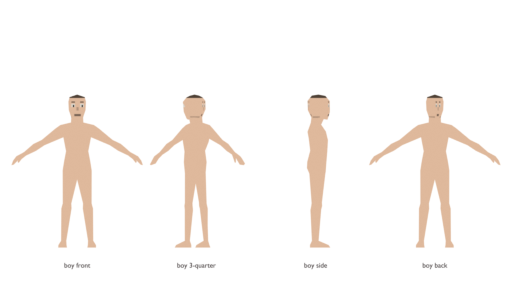
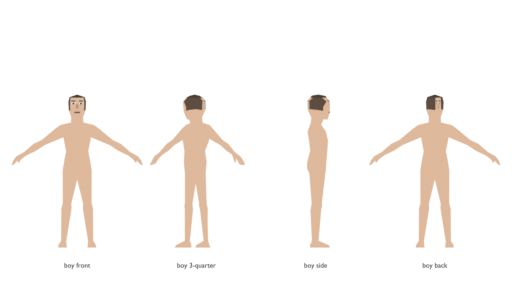
Citizens: the skirt walk strip, and a hair sheet you can actually read
Two renders that exist because two claims could not be checked without them.

citizen_skirt_walk.png poses six independent copies of the rig through a walk
arc and renders the deformed cloth. The swing axis is measured, not assumed:
the arc goes on the thigh's local X, the toe's world displacement is read back,
and the axis is swapped and re-probed if the leg went sideways. It swings on
local Z. Every skirt edge is then compared against its rest length, and the
worst stretch across the arc is asserted under 1.40. That assertion is what
caught the 2.14x shear the weights used to have.

citizen_hair_wall.png is head close-ups of all seven styles, front and side.
Silhouette is the whole point of the hair pass and it is unreadable at
full-body scale - the buried-eyes defect survived a full render sheet because
nothing drew a head bigger than ninety pixels.

Every dressed combination the renderer draws now asserts a tri budget of 700.
Highest drawn is the woman at 682; heaviest possible adult is 698.

Claude-Session: https://claude.ai/code/session_01LaXtnkTNzBmsu45HKsKTDc

diff --git a/tools/citizens/07_render_review.py b/tools/citizens/07_render_review.py
@@ -3,9 +3,13 @@
   citizen_turnaround_<MASTER>.png  front / 3-quarter / side / back
   citizen_variant_wall.png         garb toggles and hair styles on man and woman
   citizen_scale_check.png          child beside adult
+  citizen_skirt_walk.png           six posed frames of the woman's skirt
 
 The masters are rest-pose, so a plain copy of the mesh data renders identically
-to the rigged object - no evaluation, no armature, nothing to go stale.
+to the rigged object - no evaluation, no armature, nothing to go stale. The
+skirt strip is the exception and the reason it exists: it POSES six independent
+copies of the rig through a walk arc and renders the deformed cloth, because
+that is the one claim a still cannot make.
 
 Run: blender -b --factory-startup --python tools/citizens/07_render_review.py
 """
@@ -21,6 +25,14 @@ from citizen_common import MASTER, REVIEW, MASTERS, ensure_dirs, banner, tri_cou
 SLOT_W = 0.95
 ROW_H = 2.05
 
+# a walk arc for the left thigh, in degrees; the right leg mirrors it
+WALK_ARC = (-30.0, -16.0, 0.0, 16.0, 30.0, 14.0)
+
+
+def parts_of(master):
+    """A master's skin is TWO objects since the head split."""
+    return [master, "%s_head" % master]
+
 
 def clear_render_scene():
     for ob in list(bpy.data.objects):
@@ -29,6 +41,9 @@ def clear_render_scene():
     for c in list(bpy.data.curves):
         if c.name.startswith("_rv_"):
             bpy.data.curves.remove(c)
+    for a in list(bpy.data.armatures):
+        if a.name.startswith("_rv_"):
+            bpy.data.armatures.remove(a)
 
 
 def stamp(names, x, z, rot_z=0.0, label=None):
@@ -137,7 +152,7 @@ def turnaround(master):
     views = [(0.0, "front"), (math.radians(225), "3-quarter"),
              (math.radians(90), "side"), (math.radians(180), "back")]
     for i, (rot, label) in enumerate(views):
-        stamp([master], i * SLOT_W, 0.0, rot, "%s %s" % (master.lower(), label))
+        stamp(parts_of(master), i * SLOT_W, 0.0, rot, "%s %s" % (master.lower(), label))
     hide_everything_real()
     camera_over(-SLOT_W * 0.55, SLOT_W * 3.55, -0.30, 1.95, 512, 288)
     render_to(os.path.join(REVIEW, "citizen_turnaround_%s.png" % master))
@@ -171,8 +186,8 @@ def variant_wall():
     clear_render_scene()
     rows = []
     for master in ("MAN", "WOMAN"):
-        rows.append([(([master] + names), lbl) for names, lbl in GARB_SETS[master]])
-        rows.append([([master, h], h.rsplit("_", 1)[0].replace("hair_", ""))
+        rows.append([((parts_of(master) + names), lbl) for names, lbl in GARB_SETS[master]])
+        rows.append([(parts_of(master) + [h], h.rsplit("_", 1)[0].replace("hair_", ""))
                      for h in HAIR_SETS[master]])
     ncol = max(len(r) for r in rows)
     for ri, row in enumerate(rows):
@@ -188,19 +203,175 @@ def variant_wall():
 def scale_check():
     clear_render_scene()
     for i, m in enumerate(MASTERS):
-        stamp([m], i * SLOT_W, 0.0, 0.0, m.lower())
+        stamp(parts_of(m), i * SLOT_W, 0.0, 0.0, m.lower())
     # and one dressed child beside one dressed adult, the read that matters
-    stamp(["MAN", "garb_vest_plain_MAN", "garb_pants_MAN", "garb_sleeve_long_MAN",
-           "hair_short_crop_MAN"], 4.6 * SLOT_W, 0.0, 0.0, "man dressed")
-    stamp(["BOY", "garb_vest_plain_BOY", "garb_pants_BOY", "garb_sleeve_rolled_BOY",
-           "hair_shaggy_BOY"], 5.5 * SLOT_W, 0.0, 0.0, "boy dressed")
-    stamp(["WOMAN", "garb_vest_laced_WOMAN", "garb_skirt_WOMAN",
-           "hair_long_braid_WOMAN"], 6.4 * SLOT_W, 0.0, 0.0, "woman dressed")
-    stamp(["GIRL", "garb_vest_plain_GIRL", "garb_skirt_GIRL",
-           "hair_bun_GIRL"], 7.3 * SLOT_W, 0.0, 0.0, "girl dressed")
+    dressed = (
+        (4.6, "MAN", ["garb_vest_plain_MAN", "garb_pants_MAN",
+                      "garb_sleeve_long_MAN", "hair_short_crop_MAN"], "man dressed"),
+        (5.5, "BOY", ["garb_vest_plain_BOY", "garb_pants_BOY",
+                      "garb_sleeve_rolled_BOY", "hair_shaggy_BOY"], "boy dressed"),
+        (6.4, "WOMAN", ["garb_vest_laced_WOMAN", "garb_skirt_WOMAN",
+                        "garb_sleeve_long_WOMAN", "hair_long_braid_WOMAN"], "woman dressed"),
+        (7.3, "GIRL", ["garb_vest_plain_GIRL", "garb_skirt_GIRL",
+                       "hair_bun_GIRL"], "girl dressed"),
+    )
+    for x, master, worn, label in dressed:
+        names = parts_of(master) + worn
+        stamp(names, x * SLOT_W, 0.0, 0.0, label)
+        total = sum(tri_count(bpy.data.objects[n]) for n in names)
+        print("DRESSED %-14s %d tris  (%s)" % (label, total, ", ".join(worn)))
+        assert total <= 700, "%s is over the dressed budget: %d tris" % (label, total)
     hide_everything_real()
     camera_over(-SLOT_W * 0.55, SLOT_W * 7.85, -0.30, 1.95, 512, 224)
     render_to(os.path.join(REVIEW, "citizen_scale_check.png"))
+
+
+def hair_wall():
+    """Head close-ups: every style, front and side. Silhouette is the whole
+    point of the hair pass, and it is unreadable at full-body scale."""
+    clear_render_scene()
+    slot = 0.30
+    row_h = 0.42
+    rows = []
+    for master in ("MAN", "WOMAN"):
+        rows.append((master, HAIR_SETS[master]))
+    head = bpy.data.objects["MAN_head"]
+    z_lo = min(v.co.z for v in head.data.vertices)
+    z_hi = max(v.co.z for v in head.data.vertices)
+    ncol = 0
+    for ri, (master, styles) in enumerate(rows):
+        ci = 0
+        for h in styles:
+            for rot, tag in ((0.0, "front"), (math.radians(90), "side")):
+                stamp(["%s_head" % master, h], ci * slot, -ri * row_h - z_lo, rot,
+                      "%s %s" % (h.replace("hair_", "").rsplit("_", 1)[0], tag))
+                ci += 1
+        ncol = max(ncol, ci)
+    hide_everything_real()
+    camera_over(-slot * 0.55, slot * (ncol - 1) + slot * 0.55,
+                -(len(rows) - 1) * row_h - 0.12, (z_hi - z_lo) + 0.06, 768, 340)
+    render_to(os.path.join(REVIEW, "citizen_hair_wall.png"))
+
+
+def _deformed(ob):
+    dg = bpy.context.evaluated_depsgraph_get()
+    ev = ob.evaluated_get(dg)
+    me = ev.to_mesh()
+    co = [v.co.copy() for v in me.vertices]
+    edges = [tuple(e.vertices) for e in me.edges]
+    ev.to_mesh_clear()
+    return co, edges
+
+
+def _pose_legs(rig, degrees, axis):
+    for side, sign in (("Left", 1.0), ("Right", -1.0)):
+        for bone, share in (("UpLeg", 1.0), ("Leg", -0.55)):
+            pb = rig.pose.bones["mixamorig:%s%s" % (side, bone)]
+            pb.rotation_mode = 'XYZ'
+            pb.rotation_euler = (0.0, 0.0, 0.0)
+            pb.rotation_euler[axis] = math.radians(degrees) * sign * share
+    bpy.context.view_layer.update()
+
+
+def _clone_posed(master, worn, i, degrees, axis):
+    src_rig = bpy.data.objects[master].parent
+    rig = src_rig.copy()
+    rig.data = src_rig.data.copy()
+    rig.name = "_rv_rig_%d" % i
+    rig.data.name = "_rv_rigdata_%d" % i
+    bpy.context.scene.collection.objects.link(rig)
+    rig.data.pose_position = 'POSE'
+    rig.location.x = rig.location.x + i * SLOT_W
+    made = []
+    for n in parts_of(master) + worn:
+        src = bpy.data.objects[n]
+        ob = src.copy()                       # object copy, mesh data shared
+        ob.name = "_rv_%s_%d" % (n, i)
+        bpy.context.scene.collection.objects.link(ob)
+        ob.parent = rig
+        ob.matrix_parent_inverse = src.matrix_parent_inverse.copy()
+        for m in ob.modifiers:
+            if m.type == 'ARMATURE':
+                m.object = rig
+        made.append(ob)
+    _pose_legs(rig, degrees, axis)
+    return rig, made
+
+
+def skirt_walk_strip():
+    """Six posed frames of the woman's skirt through a walk arc.
+
+    The swing axis is MEASURED, not assumed: the arc is applied on the thigh's
+    local X, the toe's world displacement is read back, and if the leg moved
+    sideways instead of forward the axis is swapped and the strip rebuilt. The
+    cloth is then checked for shear by comparing every skirt edge against its
+    rest length.
+    """
+    worn = ["garb_vest_laced_WOMAN", "garb_skirt_WOMAN", "garb_sleeve_long_WOMAN",
+            "hair_long_braid_WOMAN"]
+    rest_co, rest_edges = _deformed(bpy.data.objects["garb_skirt_WOMAN"])
+
+    def toe_swing(axis):
+        clear_render_scene()
+        rig, _ = _clone_posed("WOMAN", worn, 0, WALK_ARC[0], axis)
+        base = (rig.matrix_world @ rig.pose.bones["mixamorig:LeftToeBase"].head)
+        _pose_legs(rig, WALK_ARC[4], axis)
+        tip = (rig.matrix_world @ rig.pose.bones["mixamorig:LeftToeBase"].head)
+        d = tip - base
+        clear_render_scene()
+        return d
+
+    axis = 0
+    d = toe_swing(axis)
+    print("SKIRT axis probe X: toe swing dx=%.4f dy=%.4f dz=%.4f" % (d.x, d.y, d.z))
+    if abs(d.y) <= abs(d.x):
+        axis = 2
+        d = toe_swing(axis)
+        print("SKIRT axis probe Z: toe swing dx=%.4f dy=%.4f dz=%.4f" % (d.x, d.y, d.z))
+    assert abs(d.y) > abs(d.x), \
+        "no thigh axis swings the leg fore/aft (dx=%.4f dy=%.4f)" % (d.x, d.y)
+    print("SKIRT walk swings on thigh local axis %s, toe travel %.3f m"
+          % ("XYZ"[axis], d.y))
+
+    clear_render_scene()
+    worst = 0.0
+    for i, a in enumerate(WALK_ARC):
+        _clone_posed("WOMAN", worn, i, a, axis)
+        skirt = bpy.data.objects["_rv_garb_skirt_WOMAN_%d" % i]
+        co, edges = _deformed(skirt)
+        stretch = 1.0
+        for e0, e1 in rest_edges:
+            rest = (rest_co[e0] - rest_co[e1]).length
+            now = (co[e0] - co[e1]).length
+            if rest > 1e-5:
+                stretch = max(stretch, now / rest)
+        worst = max(worst, stretch)
+        hem = min(c.z for c in co)
+        print("SKIRTDEF frame %d thigh %+.0f deg  max_edge_stretch=%.3f  hem_z=%.3f"
+              % (i, a, stretch, hem))
+    print("SKIRTDEF worst edge stretch across the arc: %.3f" % worst)
+    assert worst < 1.40, \
+        "skirt shears: an edge stretches %.2fx across the walk arc" % worst
+
+    for i, a in enumerate(WALK_ARC):
+        cu = bpy.data.curves.new("_rv_txt_walk%d" % i, type='FONT')
+        cu.body = "%+.0f deg" % a
+        cu.size = 0.055
+        cu.align_x = 'CENTER'
+        lab = bpy.data.objects.new("_rv_label_walk_%d" % i, cu)
+        bpy.context.scene.collection.objects.link(lab)
+        lab.location = (i * SLOT_W, -0.6, -0.16)
+        lab.rotation_euler = (math.pi / 2, 0, 0)
+        ink = bpy.data.materials.get("_rv_ink")
+        if ink is not None:
+            cu.materials.append(ink)
+
+    for ob in bpy.data.objects:
+        ob.hide_render = not ob.name.startswith("_rv_")
+    camera_over(-SLOT_W * 0.55, SLOT_W * (len(WALK_ARC) - 1) + SLOT_W * 0.55,
+                -0.30, 1.95, 768, 300)
+    render_to(os.path.join(REVIEW, "citizen_skirt_walk.png"))
+    clear_render_scene()
 
 
 def inventory_dump():
@@ -231,6 +402,8 @@ def main():
         turnaround(m)
     variant_wall()
     scale_check()
+    hair_wall()
+    skirt_walk_strip()
     print("STAGE07_OK")
 
 
